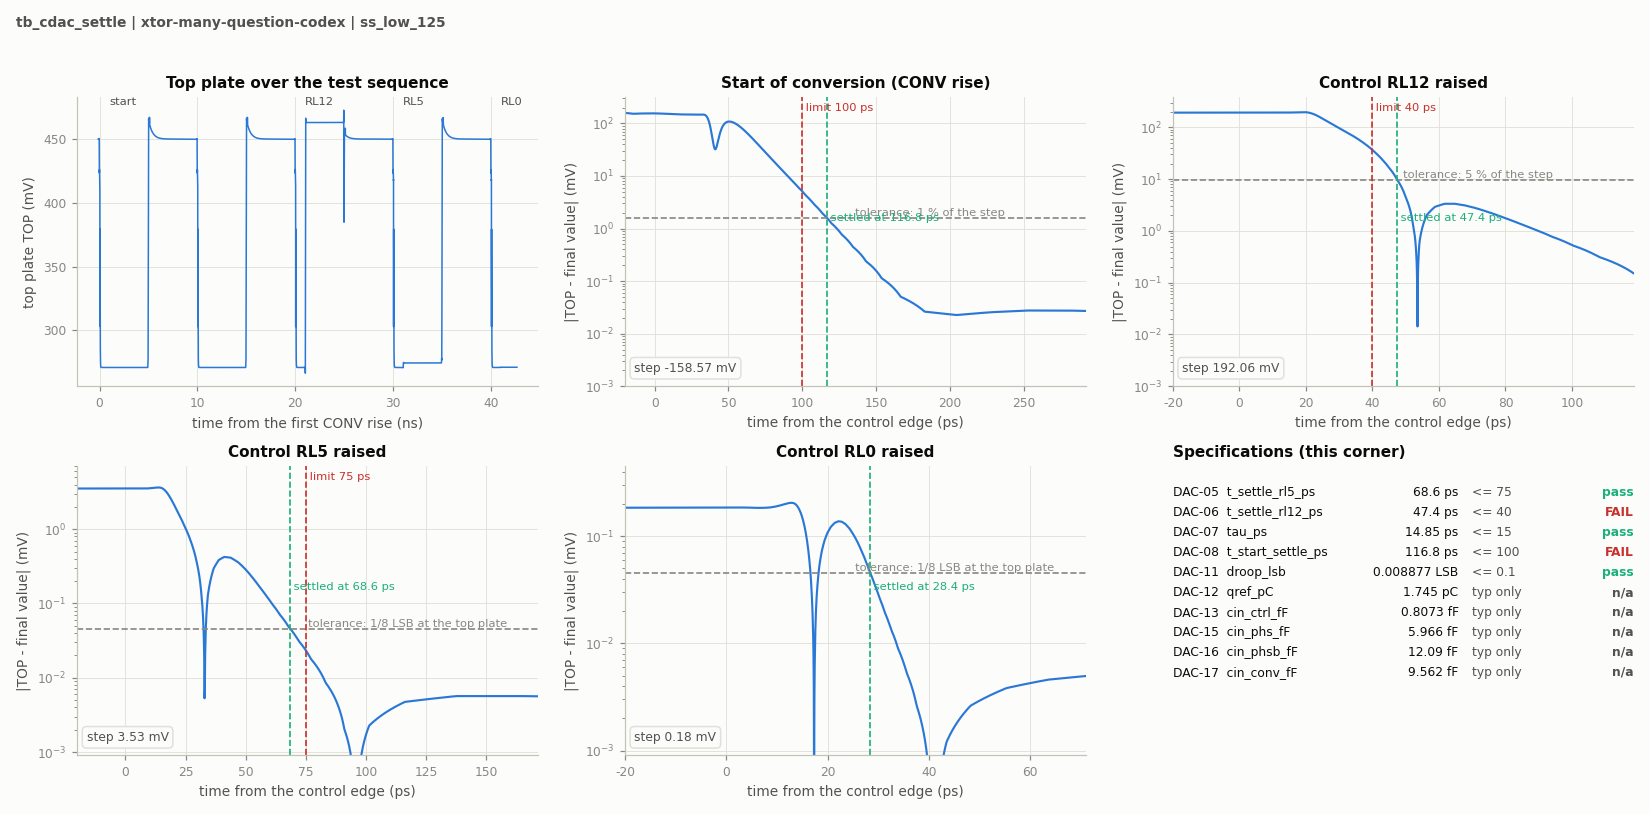
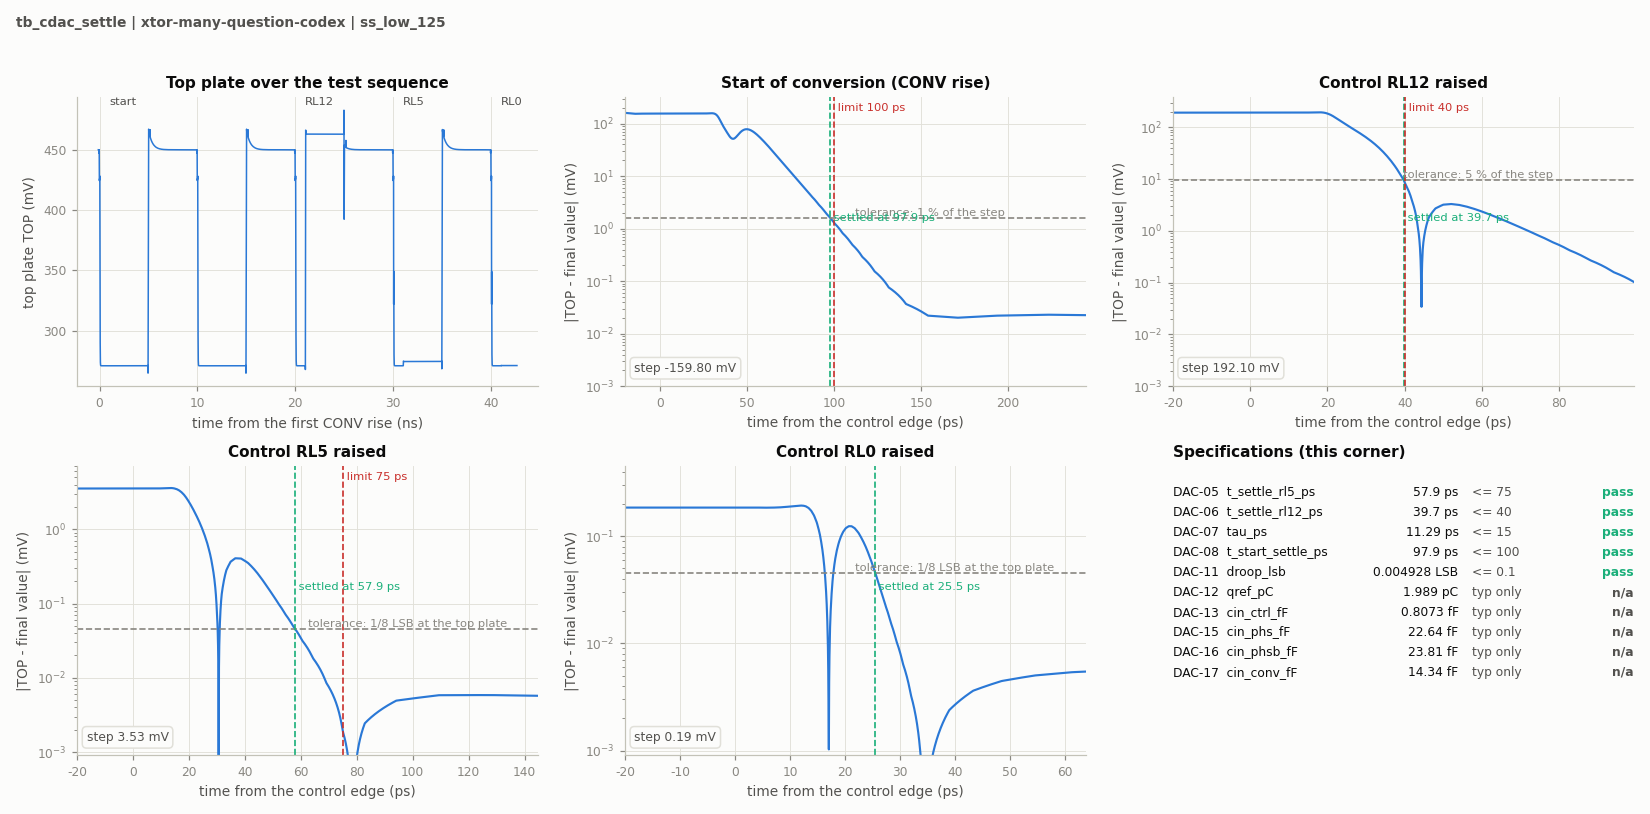
test(adc_cdac): record SS settling and FF SOA convergence

diff --git a/design/xtor/adc_cdac/many-question-codex/README.md b/design/xtor/adc_cdac/many-question-codex/README.md
@@ -19,9 +19,20 @@ N4 remains preserved at f578badee155449a905ff6d63c22088e48a623f7.
 First gate passed: TT weights 5/5, settle 10/10, track 2/2 and
 ff_high_125 dedicated SOA. TT SFDR is 88.3724 dBc and SNDR 86.6184 dB;
 Cs is 2.065123 pF and calibration margin 0.369435 LSB. Convergence checks,
-remaining required corners and real-reference mixed-top validation are pending. N4's reported FF midpoint
+remaining required corners and real-reference mixed-top validation are pending.
+FF high125 SOA crosscheck passes with 0/0 violations over 1788 pairs;
+peak 1.21415 -> 1.21343 V and worst 10 ns overvoltage window
+21.638 -> 21.690 ps. Largest pair-peak change is 3.93 mV on a
+0.63638 -> 0.64031 V pair, well below 1.1 V. N4's reported FF midpoint
 PMOS violation is not evidence about V29, which uses a different gate signal.
 No historical result is rehashed or treated as fresh evidence for this source.
+
+SS low125 primary passes its five applicable metrics. Engineering convergence
+(traponly, maxstep 1 ps, effective reltol 1e-7, vabstol 10 nV) changes RL12
+39.7 -> 39.6 ps, RL5 57.9 -> 58.3 ps and start 97.9 -> 98.4 ps.
+All remain within limits, but the 0.5 ps start difference is 24% of the
+primary margin; numerical qualification remains pending further refinement.
+This is a private numerical diagnostic, not a specification-defined crosscheck.
 
 See [schematic review](schematic-review.md) and [source](adc_cdac.scs).
 
@@ -32,10 +43,9 @@ V17/V18 retain selected decision signals, result reports and source hashes.
 Historical archive statements describe capture-time storage. Released raw data
 cannot be re-audited; selected V17/V18 signals do not support a full-DUT audit.
 
-This WIP 28 nm HPC+ candidate retains the formal N4 source and its historical
-TT reports. All 17 required TT metrics passed under the preceding protocol; the first slow-corner screen
-fails RL12 and conversion-start settling. Successor experiments remain
-independent until they earn their own validation; no old result is relabeled.
+Historical N4 baseline (superseded by V29 above): all 17 required TT metrics
+passed under the preceding protocol; its first slow-corner screen failed RL12
+and conversion-start settling. Historical reports are preserved without relabeling.
 
 Numerical-settings transition: [PR #95](https://github.com/many-question/ADC-12b-100M/pull/95)
 merged as `c6152d236e525793ecc4809b9a6c9dfb9fd0ad77`. The candidate branch
